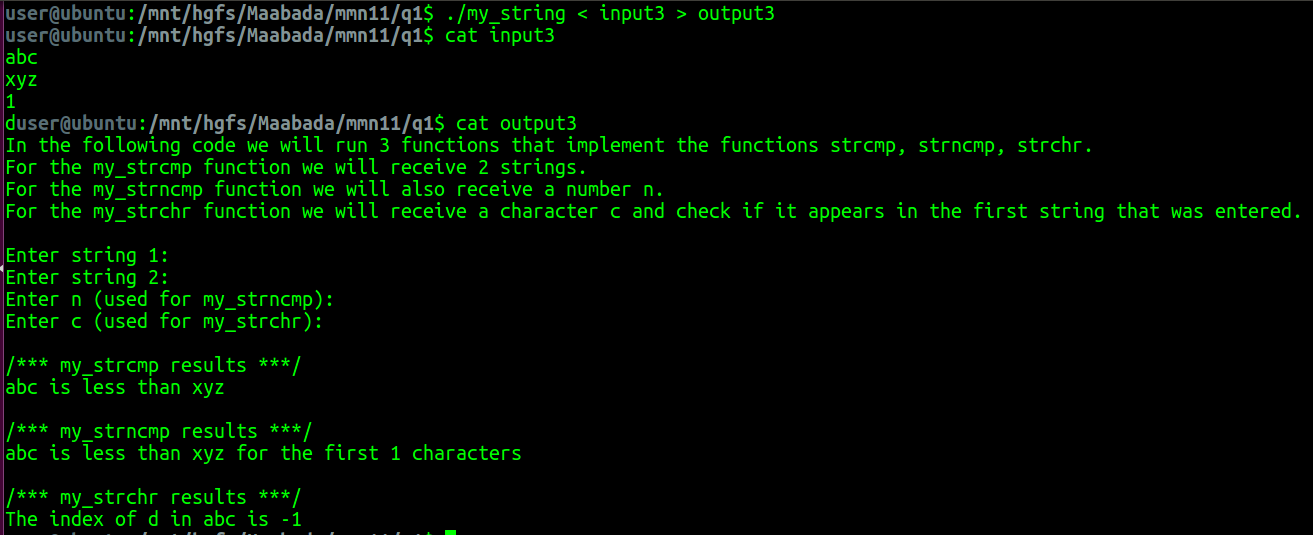
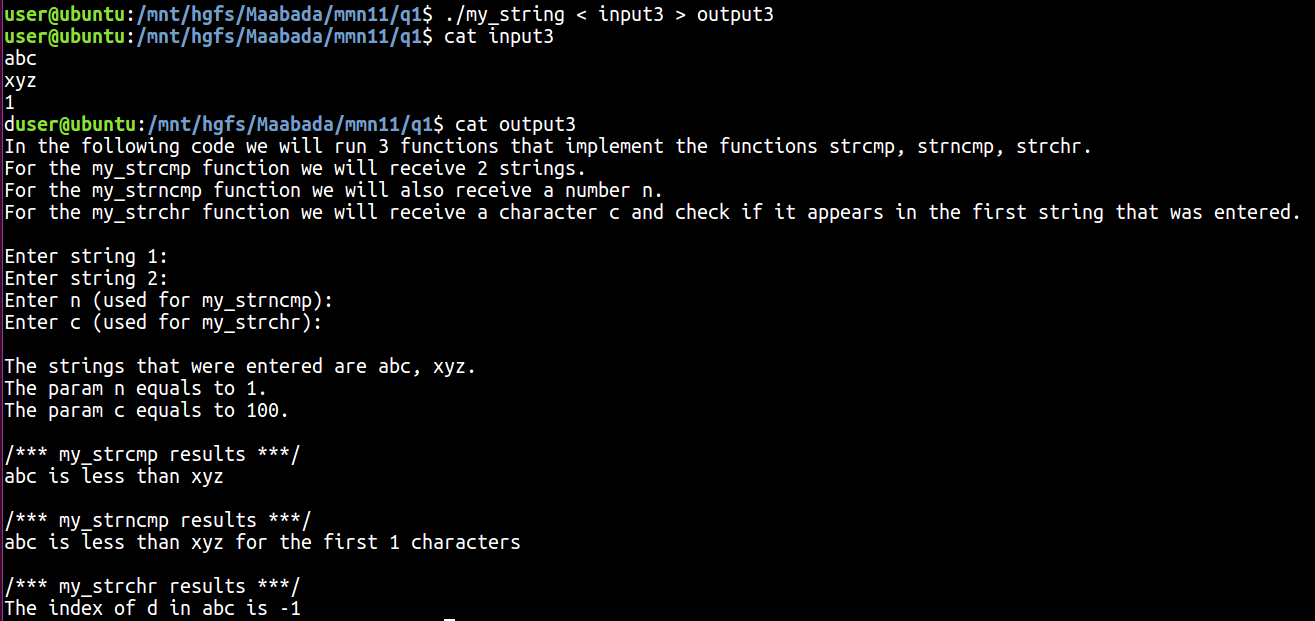
(~) updated tests for q1

Changed region(s): [[0.0, 0.0, 0.9992, 1.0], [0.3123, 0.9869, 0.3435, 1.0]]

diff --git a/q1/my_string.c b/q1/my_string.c
@@ -35,6 +35,10 @@ int main() {
     printf("Enter c (used for my_strchr):\n");
     scanf(" %c", &c);
 
+    printf("\nThe strings that were entered are %s, %s.\n", cs, ct);
+    printf("The param n equals to %d.\n", n);
+    printf("The param c equals to %d.\n", c);
+
     /* get results for all functions */
     my_strcmp_result = my_strcmp(cs, ct);
     my_strncmp_result = my_strncmp(cs, ct, n);
